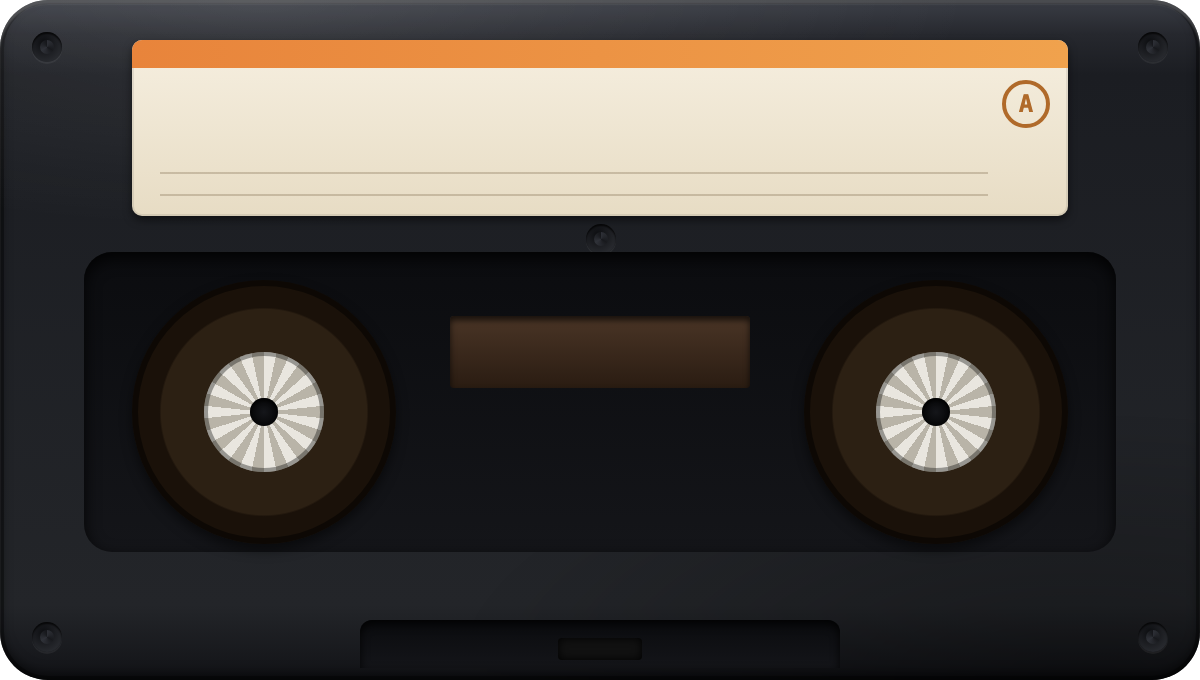
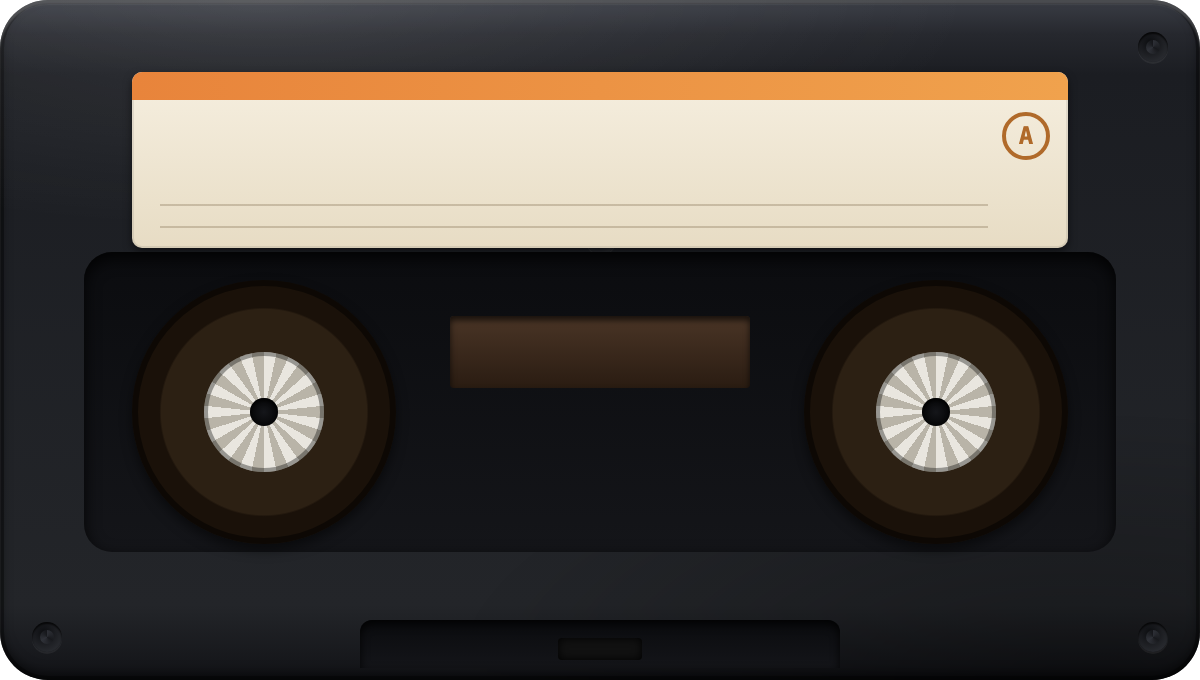
fix(showcase): re-bake Studio/Cassette to reserve the macOS control corner
Nudging the traffic-light buttons couldn't win — Studio's LCD header and Cassette's
label+corner-screw are baked into the exact top-left zone macOS uses for window
controls. Re-bake to carve out a genuine control area: inset Studio's LCD from the
left (dark strip for the buttons, title x 84->96); drop Cassette's top-left screw
and lower the label (title/artist y +16). Buttons now sit in a clear zone on every
skin like Faceplate. Verified on both re-baked skins.

Changed region(s): [[0.0925, 0.0618, 0.8942, 0.2471], [0.0925, 0.2779, 0.8942, 0.3706], [0.0308, 0.0309, 0.0617, 0.0618]]

diff --git a/showcase/Sources/Showcase/App.swift b/showcase/Sources/Showcase/App.swift
@@ -52,9 +52,8 @@ final class AppDelegate: NSObject, NSApplicationDelegate {
     /// app repositions the cluster on every skin swap rather than using one fixed offset.
     private func trafficLightOrigin(forDir dir: String) -> CGPoint {
         switch (dir as NSString).lastPathComponent {
-        case "studio": return CGPoint(x: 16, y: 20)   // on the LCD bar's left (title shifted right)
-        case "cassette": return CGPoint(x: 16, y: 9)  // dark strip above the label paper
-        default: return CGPoint(x: 16, y: 12)          // faceplate bezel + fallback
+        case "studio": return CGPoint(x: 16, y: 24)  // dark control strip left of the inset LCD
+        default: return CGPoint(x: 16, y: 12)         // faceplate bezel / cassette cleared corner
         }
     }
 

diff --git a/showcase/skins/cassette/cassette.src.html b/showcase/skins/cassette/cassette.src.html
@@ -20,7 +20,7 @@
     box-shadow:inset 0 1px 1px rgba(0,0,0,.8),0 1px 0 rgba(255,255,255,.06)}
   .screw::after{content:"";position:absolute;inset:4px;border-radius:50%;
     background:conic-gradient(#3a3d45,#17181c,#3a3d45,#17181c);opacity:.7}
-  .label{position:absolute;left:66px;right:66px;top:20px;height:88px;border-radius:5px;
+  .label{position:absolute;left:66px;right:66px;top:36px;height:88px;border-radius:5px;
     background:linear-gradient(180deg,#f6efe0,#e7dcc4);
     box-shadow:0 2px 4px rgba(0,0,0,.5),inset 0 0 0 1px rgba(0,0,0,.08);overflow:hidden}
   .label .band{position:absolute;left:0;right:0;top:0;height:14px;background:linear-gradient(90deg,#e8843b,#f0a24d)}
@@ -53,7 +53,6 @@
     background:#111;box-shadow:inset 0 0 4px #000}
 </style>
 <div class="cass">
-  <div class="screw" style="left:16px;top:16px"></div>
   <div class="screw" style="right:16px;top:16px"></div>
   <div class="screw" style="left:16px;bottom:14px"></div>
   <div class="screw" style="right:16px;bottom:14px"></div>

diff --git a/showcase/skins/studio/studio.src.html b/showcase/skins/studio/studio.src.html
@@ -15,7 +15,7 @@
     box-shadow:inset 0 3px 9px rgba(0,0,0,.9),inset 0 0 0 2px #0c1f16,inset 0 0 0 3px #262b36,inset 0 0 0 4px rgba(255,255,255,.05);
     overflow:hidden}
   .glass .scan{position:absolute;inset:0;background:repeating-linear-gradient(180deg,rgba(0,0,0,.16) 0 2px,transparent 2px 4px);opacity:.5}
-  .lcd{left:20px;top:18px;width:656px;height:44px}
+  .lcd{left:80px;top:18px;width:596px;height:44px}  /* left inset reserves a dark control strip for the macOS traffic lights */
 
   .viz{left:20px;top:74px;width:474px;height:214px}
   /* recessed playlist well — obviously darker + inset */